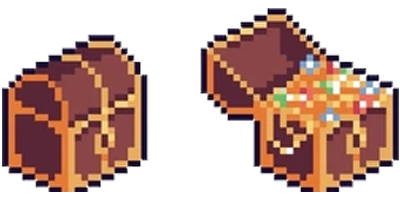
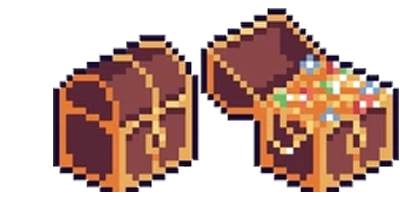
treasure can now be oppened, changed treasure image to put the middle of the 2 chests at the same place, added some conditions for traps position to avoid overlapping objects, traps are now displayed

diff --git a/GameFiles/MazeGameGUI.py b/GameFiles/MazeGameGUI.py
@@ -1,3 +1,4 @@
+import random
 import tkinter as tk
 from PIL import ImageTk, Image
 import math
@@ -41,9 +42,20 @@ class MazeGUI(tk.Tk):
             self.cell_size = math.floor(0.80*self.screen_height / self.maze_size[1])
 
         # Load images for game elements
+        # characters
         self.player_sprite = Image.open("./data/player.png").convert("RGBA")  # RGBA to handle transparency
         self.monster_sprite = Image.open("./data/monster.png").convert("RGBA")
+
+        # treasure
         self.treasure_sprite = Image.open("./data/treasure.png").convert("RGBA")
+
+        # traps
+        self.bear_trap_sprite = Image.open("./data/traps/Bear_Trap.png").convert("RGBA")
+        self.fire_trap_sprite = Image.open("./data/traps/Fire_Trap.png").convert("RGBA")
+        self.spike_trap_sprite = Image.open("./data/traps/Spike_Trap.png").convert("RGBA")
+        self.traps = {}  # dict to store the traps canvas element
+
+        # life
         self.life_sprite = Image.open("./data/HUD/life.png").convert("RGBA")
         self.lose_life_sprite = Image.open("./data/HUD/lose_life.png").convert("RGBA")
 
@@ -77,10 +89,14 @@ class MazeGUI(tk.Tk):
             w_size = 0.1 * self.screen_width  # take 10% of the player's screen
             h_size = w_size / w * h / split[1]
             resized_img = crop_img.resize((int(w_size), int(h_size)))
-        else:
+        elif type == 'treasure':
             ratio_w = 1 / (w / (1.2 * self.cell_size))
             ratio_h = 1 / (h / (1.2 * self.cell_size))
             resized_img = crop_img.resize((int(w*ratio_w), int(h*ratio_h)))
+        else:
+            ratio_w = 1 / (w / self.cell_size)
+            ratio_h = 1 / (h / self.cell_size)
+            resized_img = crop_img.resize((int(w * ratio_w), int(h * ratio_h)))
 
         new_w, new_h = resized_img.size
 
@@ -101,6 +117,7 @@ class MazeGUI(tk.Tk):
 
         self.draw_maze()
 
+        self.draw_traps()
         self.draw_treasure()
         self.draw_player()
         self.draw_monster()
@@ -438,18 +455,28 @@ class MazeGUI(tk.Tk):
 
     def draw_traps(self):
         """Draws the traps on the canvas."""
-        #todo
+        self.traps_imgs = {1: (self.bear_trap_sprite, 4), 2: (self.fire_trap_sprite, 14), 3: (self.spike_trap_sprite, 14)}  # associate a number to an image and the number of frames for the animation
 
-        # self.treasure_image, self.treasure_w, self.treasure_h = self.crop_images(self.treasure_sprite, (2, 1), (1, 1), 'treasure')
-        #
-        # x, y = self.game_state['treasure_position'][0] * self.cell_size, self.game_state['treasure_position'][1] * self.cell_size + 1.5*(self.cell_size/2 - self.treasure_h/1.7)
-        # self.treasure = self.canvas.create_image(x, y, anchor=tk.NW, image=self.treasure_image)
+        self.trap_images = {}  # Dictionary to store trap images
+        self.trap_objects = {}  # Dictionary to store trap canvas objects
+
+        for trap_pos in self.game_state['traps'].keys():
+            sprite, frames = self.traps_imgs[random.randint(1, 3)]
+            trap_image, trap_w, trap_h = self.crop_images(sprite, (frames, 1), (1, 1), 'trap')
+
+            x, y = trap_pos[0] * self.cell_size, trap_pos[1] * self.cell_size + (self.cell_size/2 - trap_h/1.8)
+            # Create the image on the canvas
+            new_trap = self.canvas.create_image(x, y, anchor=tk.NW, image=trap_image)
+
+            # Store the trap image and canvas object in dictionaries
+            self.trap_images[trap_pos] = trap_image
+            self.trap_objects[trap_pos] = new_trap
 
     def draw_treasure(self):
         """Draws the treasure on the canvas."""
         self.treasure_image, self.treasure_w, self.treasure_h = self.crop_images(self.treasure_sprite, (2, 1), (1, 1), 'treasure')
 
-        x, y = self.game_state['treasure_position'][0] * self.cell_size, self.game_state['treasure_position'][1] * self.cell_size + 1.5*(self.cell_size/2 - self.treasure_h/1.7)
+        x, y = self.game_state['treasure_position'][0] * self.cell_size + 1.5*(self.cell_size/2 - self.treasure_w/2), self.game_state['treasure_position'][1] * self.cell_size + 1.5*(self.cell_size/2 - self.treasure_h/1.7)
         self.treasure = self.canvas.create_image(x, y, anchor=tk.NW, image=self.treasure_image)
 
     def draw_life(self):
@@ -547,7 +574,8 @@ class MazeGUI(tk.Tk):
 
     def update_treasure(self):
         """Updates the GUI by modifying the image of the treasure when it is oppened."""
-        #todo
+        self.treasure_image, _, _ = self.crop_images(self.treasure_sprite, (2, 1), (2, 1), 'treasure')
+        self.canvas.itemconfig(self.treasure, image=self.treasure_image)
 
     def update_life(self, step):
         """Updates the GUI by modifying the image of the life when the player loses a heart."""

diff --git a/GameFiles/GameElements.py b/GameFiles/GameElements.py
@@ -48,9 +48,11 @@ class Trap:
         x = 0
         y = 0
 
-        max_distance = math.sqrt((0.05 * self.game_state['maze_size'][0])**2 + (0.05 * self.game_state['maze_size'][1])**2)
+        max_distance = math.sqrt((0.1 * self.game_state['maze_size'][0])**2 + (0.1 * self.game_state['maze_size'][1])**2)
         distance = max_distance
-        while self.game_state['maze'][x][y].type != 'path' or trap_pos in self.game_state['traps'].keys() or distance <= max_distance:
+        while self.game_state['maze'][x][y].type != 'path' or trap_pos in self.game_state['traps'].keys() \
+                or trap_pos == self.game_state['treasure_position'] or trap_pos == self.game_state['monster_position'] \
+                or distance <= max_distance:   # check position to avoid overlaping objects and check distance to player to avoid putting traps to close
             x = random.randint(1, self.game_state['maze_size'][0] - 2)
             y = random.randint(1, self.game_state['maze_size'][1] - 2)
             trap_pos = (x, y)

diff --git a/Main.py b/Main.py
@@ -17,7 +17,7 @@ def generate_level(maze_size=(12, 12), save=False):  # (12, 12) is the default s
 
     monster = Monster(game.game_state)
 
-    GameElements(game.game_state, 5)
+    GameElements(game.game_state, 3)
 
     Gui = MazeGUI(game.game_state, monster, player)
 
@@ -30,7 +30,7 @@ def generate_level(maze_size=(12, 12), save=False):  # (12, 12) is the default s
     return game, Gui
 
 def main():
-    game, Gui = generate_level(save=True)
+    game, Gui = generate_level(save=False)
 
     Gui.mainloop()
 

diff --git a/GameFiles/Player.py b/GameFiles/Player.py
@@ -111,6 +111,7 @@ class Player:
         #         return 'trap', True
         #
         if self.game_state['player_position'] == self.game_state['treasure_position']:
+            self.gui.update_treasure()
             self.mazeGame.end_game()
 
     def lose_life(self):
